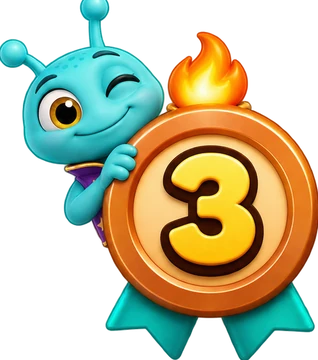
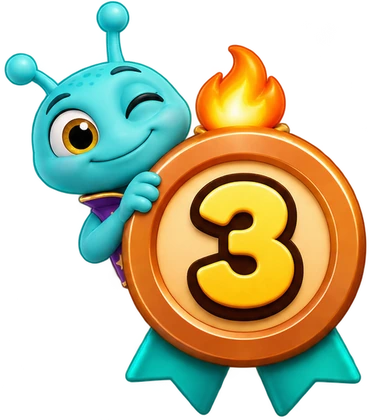
в

Changed region(s): [[0.0, 0.0, 1.0, 1.0], [0.5094, 0.6417, 0.5377, 0.6722]]

diff --git a/index.html b/index.html
@@ -270,13 +270,11 @@ button.rw{cursor:pointer;animation:pl 1.6s infinite}.rw.done{background:#1f6b4d;
 .mi .msp{position:absolute;transform:translate(-50%,-50%);font-size:.085em;line-height:1;font-style:normal;color:#fff8cf;text-shadow:0 0 .03em #ffd23f,0 0 .07em #ffc400;pointer-events:none;opacity:0;animation:msp 2.4s ease-in-out infinite}
 @keyframes msp{0%,100%{opacity:0;scale:.3}50%{opacity:1;scale:1.25}}
 .mc.ok,.mc.got{position:relative;overflow:hidden}
-.mc.ok::before,.mc.got::before{content:"";position:absolute;left:50%;top:34%;width:250px;height:250px;margin:-125px 0 0 -125px;background:repeating-conic-gradient(rgba(255,226,122,.24) 0 8deg,transparent 8deg 16deg);-webkit-mask:radial-gradient(circle,#000 14%,transparent 68%);mask:radial-gradient(circle,#000 14%,transparent 68%);animation:mrot 18s linear infinite;pointer-events:none}
+.mc.ok::before,.mc.got::before{content:"";position:absolute;left:50%;top:38%;width:230px;height:230px;margin:-115px 0 0 -115px;border-radius:50%;background:radial-gradient(circle,rgba(255,222,110,.75) 0%,rgba(255,190,60,.38) 38%,transparent 68%);animation:mglow 2.2s ease-in-out infinite;pointer-events:none}
+@keyframes mglow{0%,100%{transform:scale(.72);opacity:.45}50%{transform:scale(1.08);opacity:1}}
 .mc.ok>*,.mc.got>*{position:relative;z-index:1}
-.mc.ok{animation:mcg 2s ease-in-out infinite}@keyframes mcg{50%{box-shadow:0 0 28px #ffd23fcc}}
-.mc.got .mi{filter:drop-shadow(0 0 9px rgba(255,200,60,.55));animation:okp 2.4s ease-in-out infinite alternate}
-.mc.ok .mimg.m30,.mc.got .mimg.m30,#mv .mimg.m30{animation:mhue 4.5s ease-in-out infinite alternate}
-@keyframes mhue{from{filter:hue-rotate(-20deg) saturate(1.1)}to{filter:hue-rotate(24deg) saturate(1.3)}}
-.mvb{position:relative}.mvb::before{content:"";position:absolute;left:50%;top:180px;width:440px;height:440px;margin:-220px 0 0 -220px;background:repeating-conic-gradient(rgba(255,226,122,.3) 0 9deg,transparent 9deg 18deg);-webkit-mask:radial-gradient(circle,#000 18%,transparent 66%);mask:radial-gradient(circle,#000 18%,transparent 66%);animation:mrot 16s linear infinite;z-index:-1;pointer-events:none}
+.mc.got .mi{filter:drop-shadow(0 0 6px rgba(255,200,60,.5))}
+.mvb{position:relative}.mvb::before{content:"";position:absolute;left:50%;top:170px;width:420px;height:420px;margin:-210px 0 0 -210px;border-radius:50%;background:radial-gradient(circle,rgba(255,222,110,.8) 0%,rgba(255,190,60,.4) 38%,transparent 68%);animation:mglow 2.2s ease-in-out infinite;z-index:-1;pointer-events:none}
 @keyframes mrot{to{transform:rotate(360deg)}}
 @media (prefers-reduced-motion:reduce){.mi .msh,.mi .msp,.mvb::before,.mc.ok::before,.mc.got::before,.mc.ok,.mc.got .mi,.tab .nb,.mc .mimg,.dk.spray{animation:none}.mi .msp{opacity:.8}}
 .edb .rail{margin:0 -4px;padding:4px 4px 8px}.edr .btn{margin:0;width:auto;flex:1;font-size:20px;padding:0 10px;height:46px;border-width:3px;box-shadow:0 4px 0 #0b6b63}
@@ -651,7 +649,7 @@ function tabShop(){
  <button class="btn alt" onclick="openBox()">🎁 Сундук-сюрприз · ⭐ 25</button><p class="center" style="font-size:13px;opacity:.8;margin:6px 0">В сундуке предмет стоимостью до 60 ⭐</p>`,false,"shop");
  pvSheet();hero("happy");say(PV?`Примеряем: ${PV.n}!`:"Нажми на предмет, чтобы примерить!")}
 const MEDALS=[[3,"badge_3","3 дня",10],[7,"badge_7","7 дней",25],[14,"badge_14","14 дней",50],[30,"badge_30","30 дней",120]];
-const MD={"3": [318, 360, 0, 0], "7": [316, 360, 0, 0], "14": [345, 360, 0, 0], "30": [308, 360, 0, 0]},MS={"3": ["#fff3d6", "#ffb347", "#5a2d0c", 0.17], "7": ["#ffffff", "#cfd8ea", "#2b3f6b", 0.17], "14": ["#fffbe0", "#ffd23f", "#6b3a00", 0.15], "30": ["#ffffff", "#ffd6f7", "#5b2b8f", 0.13]};
+const MD={"3": [371, 420, 0, 0], "7": [370, 420, 0, 0], "14": [404, 420, 0, 0], "30": [368, 420, 0, 0]},MS={"3": ["#fff3d6", "#ffb347", "#5a2d0c", 0.17], "7": ["#ffffff", "#cfd8ea", "#2b3f6b", 0.17], "14": ["#fffbe0", "#ffd23f", "#6b3a00", 0.15], "30": ["#ffffff", "#ffd6f7", "#5b2b8f", 0.13]};
 const SPK=[[16,22,0],[84,30,.7],[24,74,1.3],[80,80,1.9],[50,10,.35],[92,56,1.1]];
 const medalImg=(m,h,off)=>{const k=m[0],d=MD[k],w=Math.round(h*d[0]/d[1]);return `<div class="mi" style="height:${h}px;width:${w}px;font-size:${w}px"><img class="mimg m${k}" src="img/medals/m${k}.webp" alt="">${off?'<img class="lk2" src="img/icons/lock.png" alt="">':`<i class="msh t${k}" style="--m:url(img/medals/m${k}.webp)"></i>${SPK.map(q=>`<b class="msp" style="left:${q[0]}%;top:${q[1]}%;animation-delay:${q[2]}s">✦</b>`).join("")}`}</div>`};
 function showMedal(m){const o=document.createElement("div");o.id="mv";o.innerHTML=`<div class="mvb"><div class="mvh">Новая медаль!</div>${medalImg(m,300,false)}<div class="mvt">${m[2]} подряд</div><div class="mvr">+${m[3]} ⭐</div><button class="btn" onclick="this.closest('#mv').remove()">Отлично!</button></div>`;document.body.appendChild(o);confetti();fb(1)}
